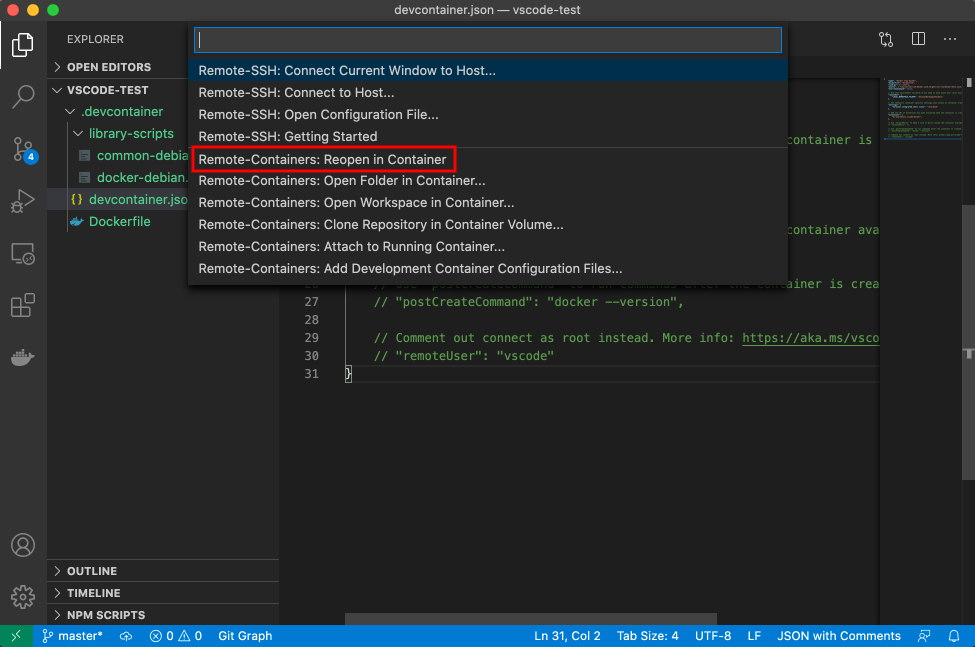
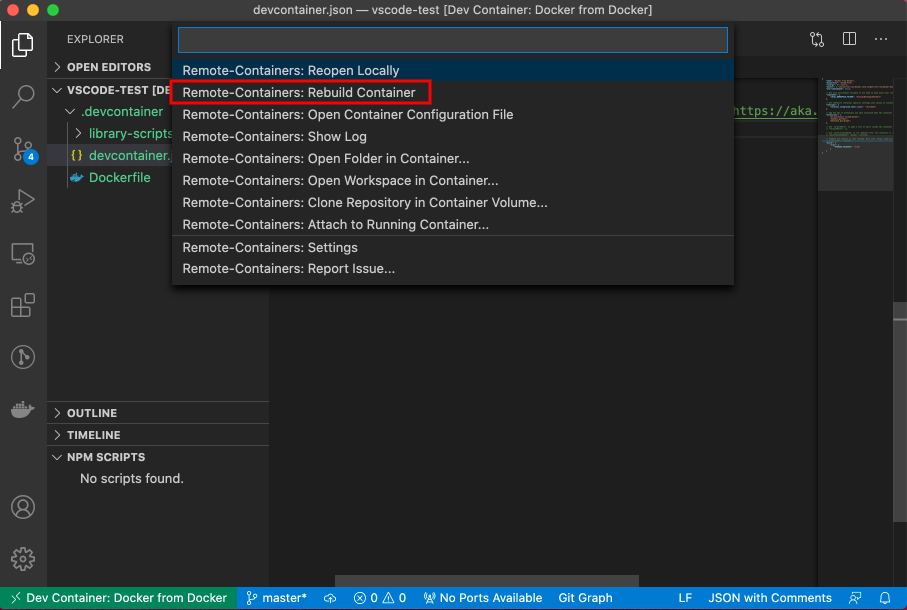
最後の画像追加

diff --git a/content/blog/2020-11-25_devcontainer.md b/content/blog/2020-11-25_devcontainer.md
@@ -73,11 +73,11 @@ https://github.com/iganari/devcontainer_sample
 
 {{< figure src="/img/2020/11/vcode-devcontainer-03.png" >}}
 
-### WIP
+### `Add Developcontaner ...` をクリック
 
 {{< figure src="/img/2020/11/vcode-devcontainer-04.png" >}}
 
-### Docker from Docker を選択
+### `Docker from Docker` を選択
 
 {{< figure src="/img/2020/11/vcode-devcontainer-05.png" >}}
 
@@ -101,13 +101,13 @@ vscode-test
 2 directories, 4 files
 ```
 
+{{< figure src="/img/2020/11/vcode-devcontainer-07.png" >}}
+
 + git の登録をしておきます
 
 ```
 git init .
 ```
-
-{{< figure src="/img/2020/11/vcode-devcontainer-07.png" >}}
 
 ### 左下のメニュー(?)をクリック
 
@@ -129,14 +129,14 @@ docker コマンドが実行可能だということが分かる
 
 ホストマシンの Docker と連動しているのがわかります
 
-{{< figure src="/img/2020/11/vcode-devcontainer-11.png" >}}
-
-
 ```
 $ docker ps
 CONTAINER ID        IMAGE                                              COMMAND                  CREATED             STATUS              PORTS               NAMES
 b15c433ecbad        vsc-vscode-test-3cb0b3ccaa4656c8c325ac5c9e357dcd   "/usr/local/share/do…"   4 hours ago         Up 4 hours                              busy_williams
 ```
+
+{{< figure src="/img/2020/11/vcode-devcontainer-11.png" >}}
+
 
 # VS Code 上で root で実行できるようにする
 
@@ -157,7 +157,7 @@ b15c433ecbad        vsc-vscode-test-3cb0b3ccaa4656c8c325ac5c9e357dcd   "/usr/loc
 
 ### 反映
 
-+ `Remote-Containers: Reopen in Container` をクリック
++ `Remote-Containers: Rebuild Container` をクリック
 
 {{< figure src="/img/2020/11/vcode-devcontainer-12.png" >}}
 
@@ -258,6 +258,8 @@ RUN curl https://packages.cloud.google.com/apt/doc/apt-key.gpg | apt-key --keyri
 RUN apt-get update && apt-get install -y google-cloud-sdk
 ```
 
+
+
 ### 反映
 
 コンテナのリビルド
@@ -275,11 +277,16 @@ gsutil 4.55
 kubectl 1.16.13
 ```
 
+{{< figure src="/img/2020/11/vcode-devcontainer-17.png" >}}
 
 
 # まとめ
 
-
-
 お疲れさまでした :)
 
+repository に置いておきたい dev container の基礎的な設定が完了しました
+
+後は、使いやすいようにカスタマイズしていきましょう!
+
+
+Have fun !
